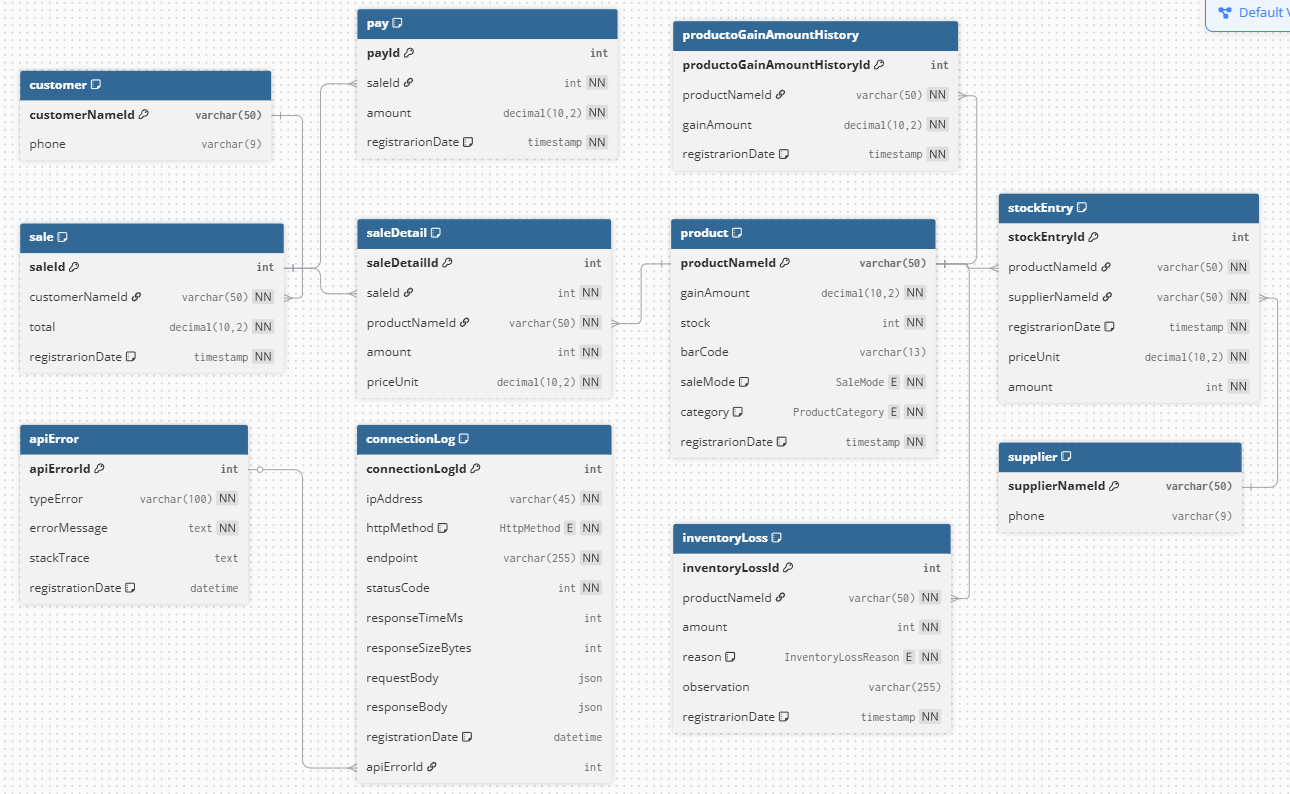
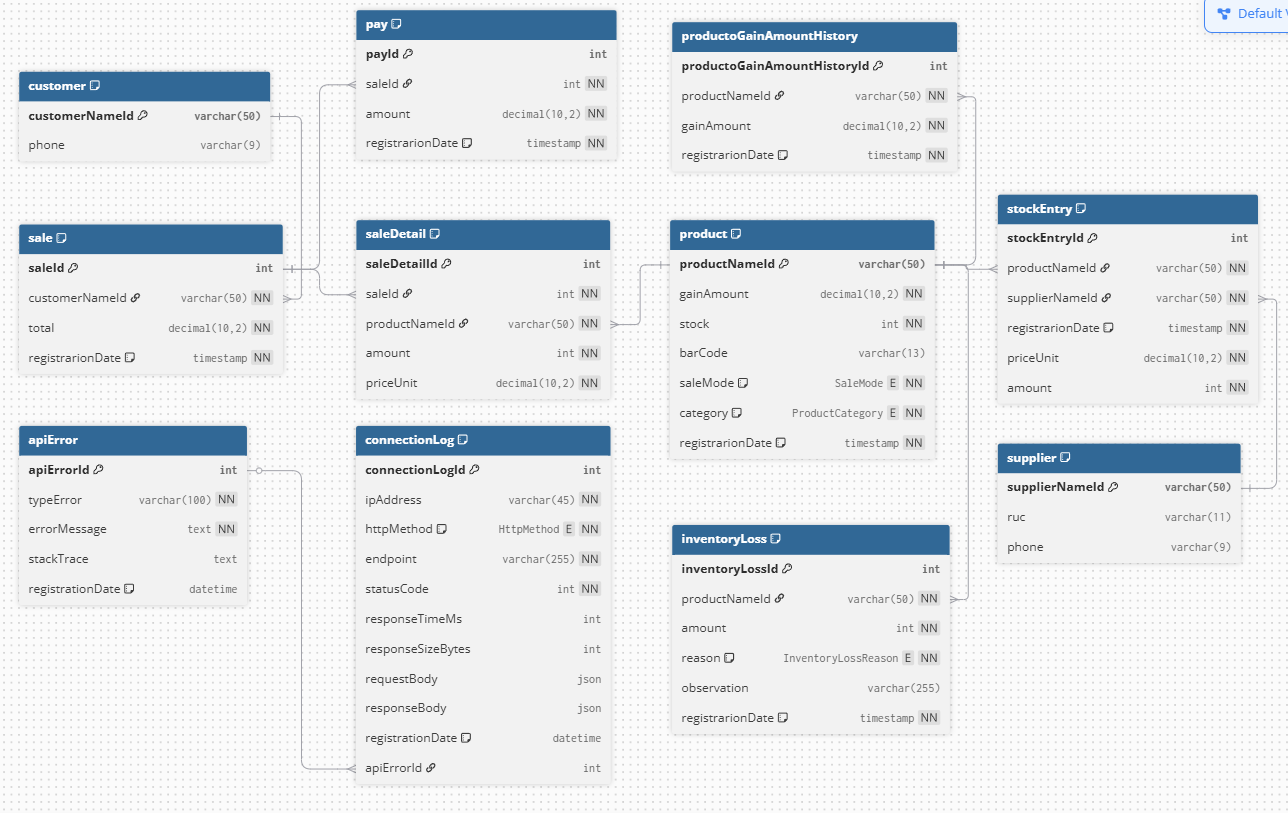
update dataBase

diff --git a/dataBase/dbml.md b/dataBase/dbml.md
@@ -52,9 +52,10 @@ table productoGainAmountHistory {
 
 table supplier {
   supplierNameId varchar(50) [pk]
+  ruc varchar(11) unique
   phone varchar(9)
 
-  Note: 'CHECK (CHAR_LENGTH(phone) = 9)'
+  Note: 'CHECK (CHAR_LENGTH(phone) = 9) AND CHECK (CHAR_LENGTH(ruc) = 11)'
 }
 
 table customer {
